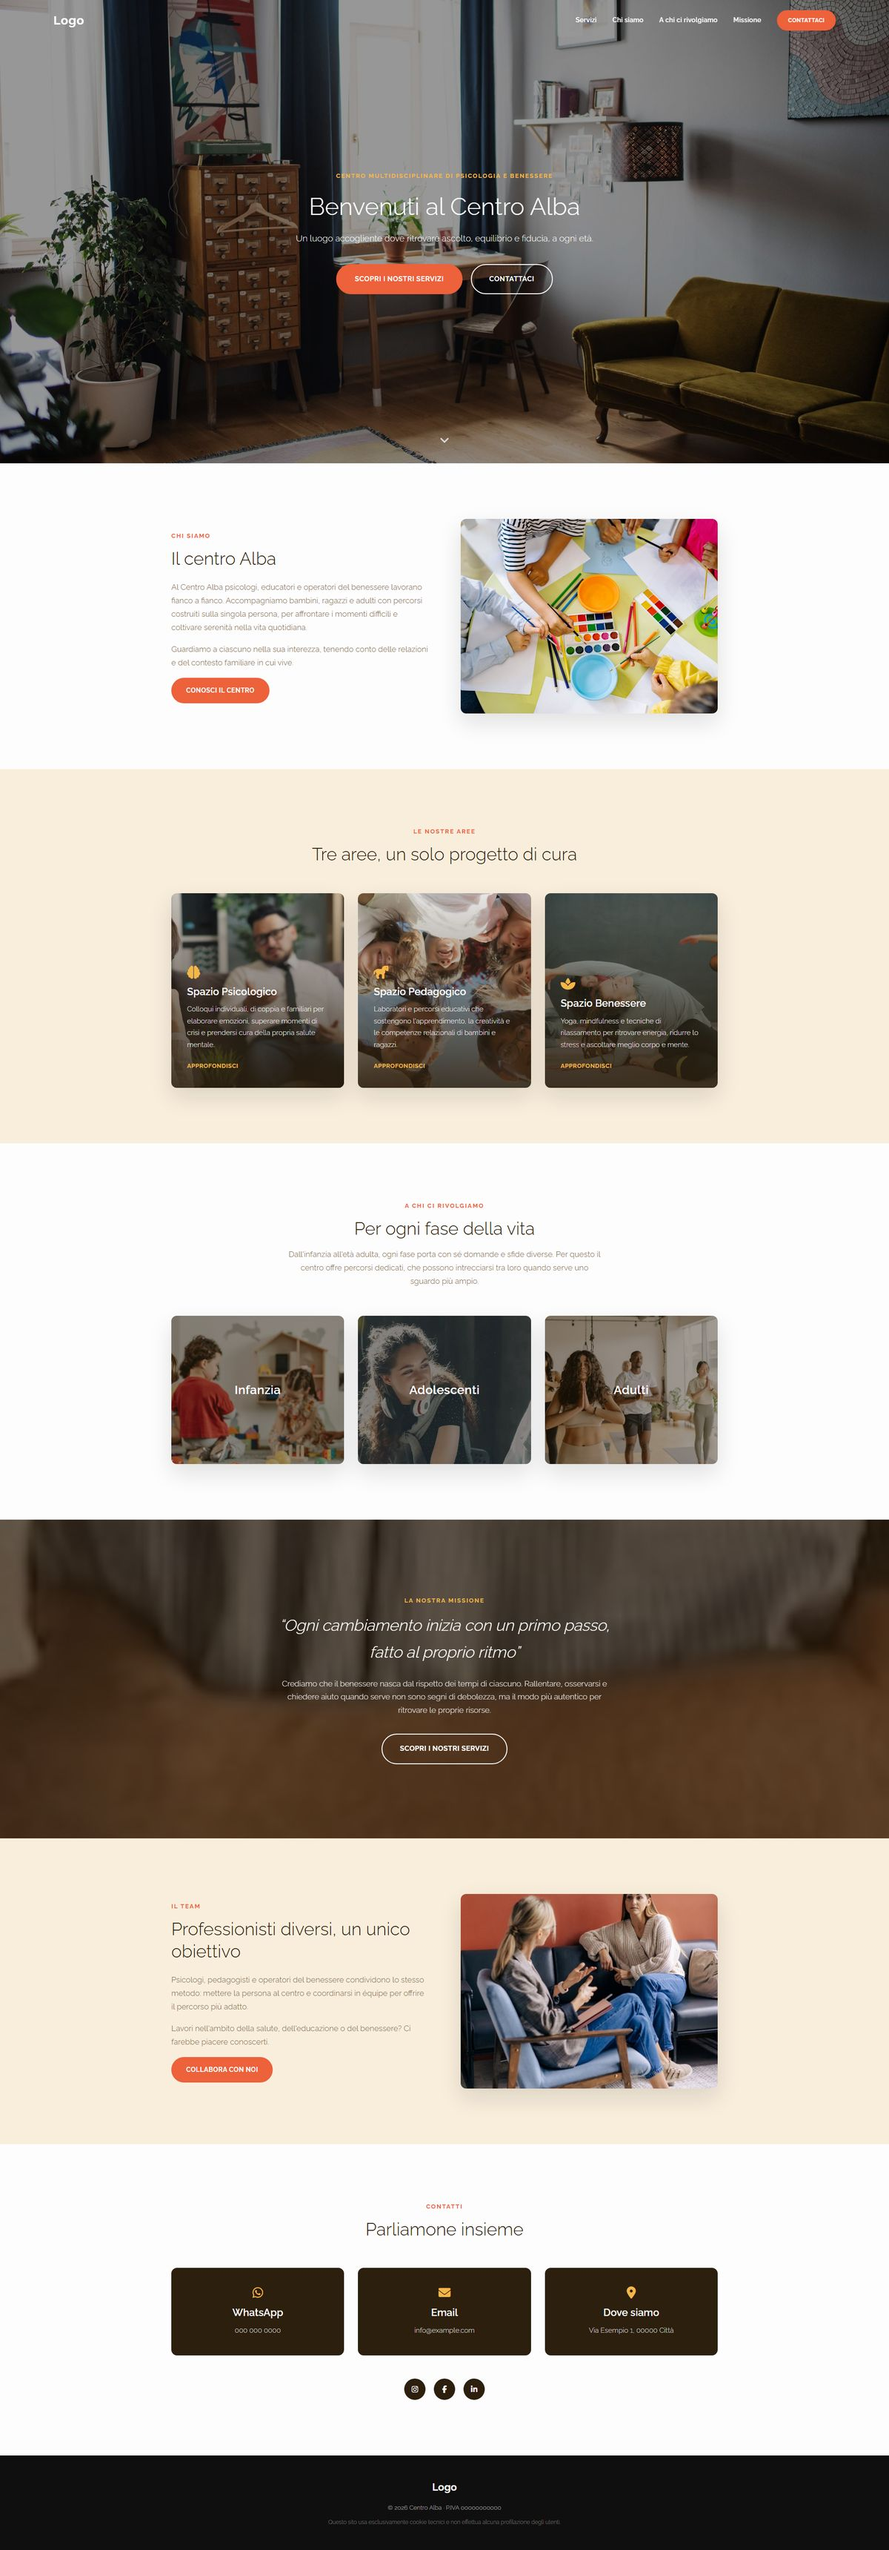
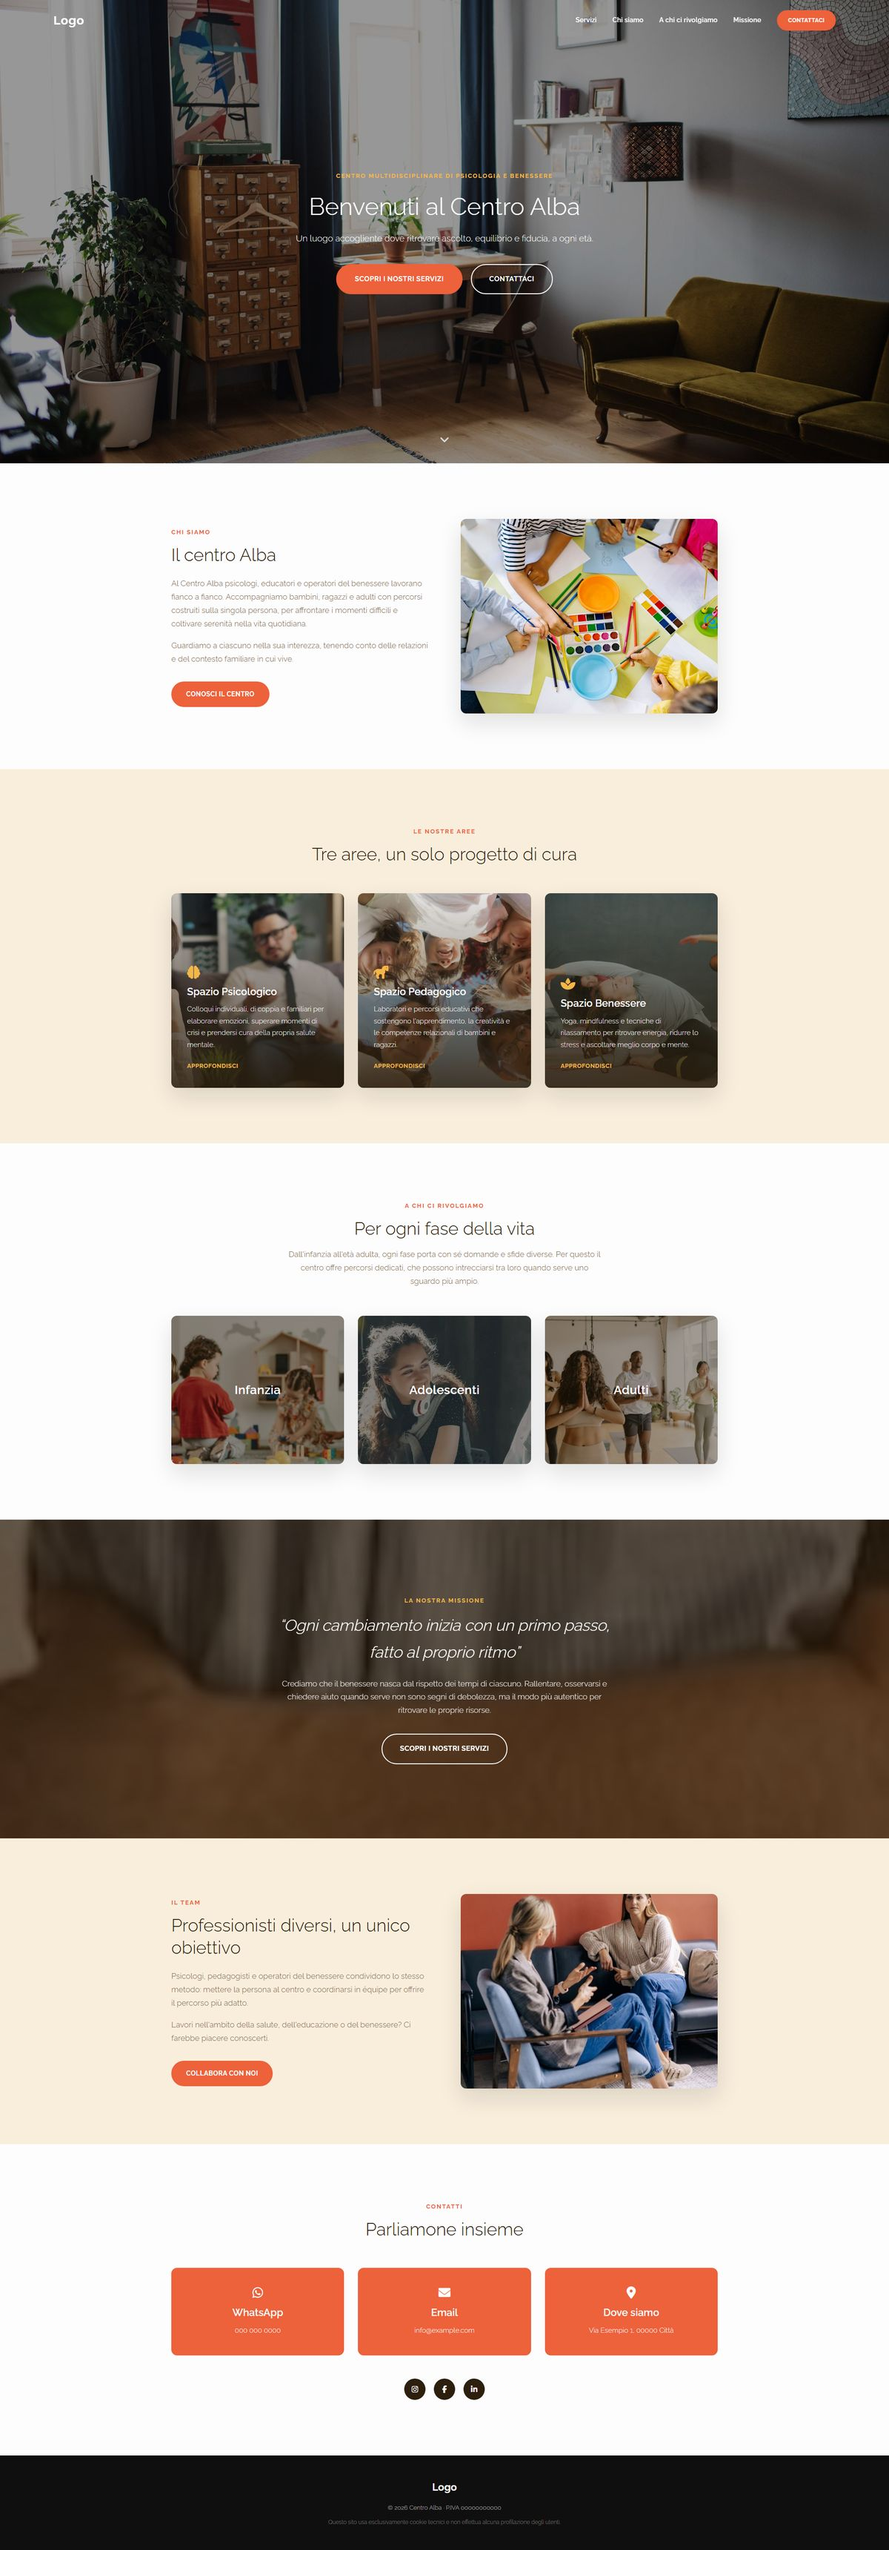
Wellness demo: CTA spacing, red contact cards

Changed region(s): [[0.185, 0.8709, 0.8325, 0.9331], [0.185, 0.7465, 0.4625, 0.8398], [0.185, 0.2177, 0.4625, 0.2799]]

diff --git a/benessere/assets/css/main.css b/benessere/assets/css/main.css
@@ -1,1 +1,1 @@
-:root{--amber: #ed613b;--amber-hover: #d94f2b;--gold: #f2b749;--brown: #7a6240;--night: #2c1f0e;--cream: #f9eedc;--grey: #ebebeb;--black: #0f0f0f;--white: #fdfdfd;--font: "Raleway", -apple-system, BlinkMacSystemFont, sans-serif;--radius: 12px;--shadow: 0 20px 50px rgba(15, 15, 15, 0.12);--transition: all 0.3s ease;--max-width: 1180px}*{margin:0;padding:0;box-sizing:border-box}html{scroll-behavior:smooth}body{font-family:var(--font);font-weight:300;color:var(--night);background-color:var(--white);line-height:1.7;overflow-x:hidden}body.is-loading *{transition:none !important}img{display:block;max-width:100%}a{color:inherit;text-decoration:none}h1,h2,h3{font-weight:300;line-height:1.25}h1{font-size:52px}h2{font-size:38px}h3{font-size:22px;font-weight:600}p{font-size:17px}.kicker{display:inline-block;font-size:13px;font-weight:700;letter-spacing:2px;text-transform:uppercase;color:var(--amber);margin-bottom:14px}.kicker.light{color:var(--gold)}.button{display:inline-flex;align-items:center;gap:8px;padding:14px 30px;border-radius:999px;background-color:var(--amber);color:var(--white);font-weight:700;font-size:14px;letter-spacing:.5px;text-transform:uppercase;transition:var(--transition);border:2px solid var(--amber)}.button:hover{background-color:var(--amber-hover);border-color:var(--amber-hover);transform:translateY(-2px)}.button.big{padding:18px 38px;font-size:15px}.button.alt{background-color:rgba(0,0,0,0);border-color:var(--white)}.button.alt:hover{background-color:var(--white);color:var(--night)}.button.small{padding:10px 22px;font-size:12px}#navbar{position:fixed;top:0;left:0;right:0;z-index:1000;display:flex;align-items:center;justify-content:space-between;padding:22px 6%;transition:var(--transition)}#navbar.is-solid{background-color:rgba(253,253,253,.96);backdrop-filter:blur(6px);padding:14px 6%;box-shadow:0 2px 20px rgba(15,15,15,.06)}#navbar .logo{font-size:26px;font-weight:700;color:var(--white);letter-spacing:1px;transition:var(--transition)}#navbar.is-solid .logo{color:var(--amber)}#navbar nav{display:flex;align-items:center;gap:34px}#navbar nav a:not(.button){font-size:14px;font-weight:600;color:var(--white);letter-spacing:.3px;position:relative;transition:var(--transition)}#navbar.is-solid nav a:not(.button){color:var(--night)}#navbar nav a:not(.button)::after{content:"";position:absolute;left:0;bottom:-6px;width:0;height:2px;background-color:var(--amber);transition:var(--transition)}#navbar nav a:not(.button):hover::after{width:100%}#nav-toggle{display:none;flex-direction:column;gap:5px;background:none;border:none;cursor:pointer;padding:6px}#nav-toggle span{width:26px;height:2px;background-color:var(--white);transition:var(--transition)}#navbar.is-solid #nav-toggle span{background-color:var(--night)}.block-hero{position:relative;min-height:min(100vh,1000px);display:flex;align-items:center;justify-content:center;text-align:center;background-size:cover;background-position:center;background-repeat:no-repeat;padding:0 6%}.block-hero .overlay{position:absolute;inset:0;background:rgba(0,0,0,.35)}.block-hero .content{position:relative;z-index:2;max-width:780px;color:var(--white)}.block-hero .eyebrow{display:inline-block;font-size:13px;font-weight:700;letter-spacing:2px;text-transform:uppercase;color:var(--gold);margin-bottom:22px}.block-hero h1{margin-bottom:20px}.block-hero p{font-size:19px;font-weight:300;margin-bottom:40px;opacity:.92}.block-hero .actions{display:flex;gap:18px;justify-content:center;flex-wrap:wrap}.scroll-cue{position:absolute;bottom:36px;left:50%;transform:translateX(-50%);z-index:2;color:var(--white);font-size:20px;opacity:.8;animation:bounce 2.2s infinite}@keyframes bounce{0%,100%{transform:translate(-50%, 0)}50%{transform:translate(-50%, 10px)}}.block,.block-dark{padding:120px 6%}.block-alt{background-color:var(--cream)}.block-dark{background-color:var(--night);color:var(--white)}.inner{max-width:var(--max-width);margin:0 auto}.section-head{max-width:680px;margin:0 auto 60px;text-align:center}.section-head p{margin-top:18px;color:var(--brown)}.block-dark .section-head p{color:rgba(253,253,253,.75)}.two-col{display:grid;grid-template-columns:1fr 1fr;gap:70px;align-items:center}.two-col.reverse .col.image{order:2}.two-col .text h2{margin-bottom:24px}.two-col .text p{color:var(--brown);margin-bottom:18px}.two-col .image img{width:100%;height:420px;object-fit:cover;border-radius:var(--radius);box-shadow:var(--shadow)}.grid{display:grid;gap:30px}.grid.three{grid-template-columns:repeat(3, 1fr)}.tile{position:relative;min-height:420px;border-radius:var(--radius);overflow:hidden;background-size:cover;background-position:center;box-shadow:var(--shadow);display:flex;align-items:flex-end}.tile-overlay{position:absolute;inset:0;background:linear-gradient(180deg, rgba(44, 31, 14, 0.1) 0%, rgba(44, 31, 14, 0.88) 100%);transition:var(--transition)}.tile-overlay::after{content:"";position:absolute;inset:0;background:linear-gradient(180deg, rgba(237, 97, 59, 0.3) 0%, rgba(237, 97, 59, 0.92) 100%);opacity:0;transition:opacity .3s ease}.tile:hover .tile-overlay::after{opacity:1}.tile-content{position:relative;z-index:2;padding:34px;color:var(--white)}.tile-content i{font-size:28px;color:var(--gold);margin-bottom:14px;display:block}.tile-content h3{color:var(--white);margin-bottom:12px}.tile-content p{font-size:15px;opacity:.9;margin-bottom:18px}.tile-content .link{font-size:13px;font-weight:700;letter-spacing:.5px;text-transform:uppercase;color:var(--gold);display:inline-flex;align-items:center;gap:8px}.cards-age{margin-top:10px}.age-card{position:relative;min-height:320px;border-radius:var(--radius);overflow:hidden;background-size:cover;background-position:center;box-shadow:var(--shadow);display:flex;align-items:center;justify-content:center}.age-overlay{position:absolute;inset:0;background-color:rgba(44,31,14,.45);transition:var(--transition)}.age-card:hover .age-overlay{background-color:rgba(237,97,59,.75)}.age-title{position:relative;z-index:2;color:var(--white);font-size:26px;font-weight:600;letter-spacing:.5px}.block-feature{position:relative;padding:160px 6%;text-align:center;background-size:cover;background-position:center;background-attachment:fixed}.block-feature .overlay{position:absolute;inset:0;background-color:rgba(44,31,14,.72)}.block-feature .content{position:relative;z-index:2;max-width:720px;margin:0 auto;color:var(--white)}.block-feature blockquote{font-size:34px;font-weight:300;font-style:italic;margin-bottom:24px}.block-feature p{opacity:.85;margin-bottom:36px}.contact-grid{margin-bottom:50px}.contact-card{text-align:center;padding:40px 20px;border-radius:var(--radius);background-color:rgba(253,253,253,.06);border:1px solid rgba(253,253,253,.1);transition:var(--transition)}.contact-card:hover{background-color:rgba(253,253,253,.1);transform:translateY(-4px)}.contact-card i{font-size:26px;color:var(--gold);margin-bottom:16px;display:block}.contact-card h3{color:var(--white);margin-bottom:10px}.contact-card span{color:rgba(253,253,253,.8);font-size:15px}.socials{display:flex;justify-content:center;gap:18px;list-style:none}.socials span{width:46px;height:46px;border-radius:50%;display:flex;align-items:center;justify-content:center;background-color:rgba(253,253,253,.08);color:var(--white);transition:var(--transition)}.socials span:hover{background-color:var(--amber);transform:translateY(-3px)}footer{padding:50px 6%;background-color:var(--black);color:rgba(253,253,253,.6);text-align:center}footer .logo{font-size:22px;font-weight:700;color:var(--white);display:inline-block;margin-bottom:14px}footer p{font-size:13px}footer .disclaimer{margin-top:10px;opacity:.6;font-size:12px}.reveal{opacity:0;transform:translateY(30px);transition:opacity .7s ease,transform .7s ease}.reveal.is-visible{opacity:1;transform:translateY(0)}@media(max-width: 900px){h1{font-size:38px}h2{font-size:30px}.block,.block-dark{padding:90px 6%}.block-feature{padding:110px 6%;background-attachment:scroll}.two-col,.grid.three{grid-template-columns:1fr}.two-col.reverse .col.image{order:0}.two-col .image img{height:280px}#navbar nav{position:fixed;top:0;right:-100%;width:78%;max-width:320px;height:100vh;background-color:var(--white);flex-direction:column;align-items:flex-start;justify-content:center;gap:26px;padding:40px;box-shadow:-10px 0 40px rgba(15,15,15,.15);transition:right .35s ease}#navbar nav.is-open{right:0}#navbar nav a:not(.button){color:var(--night) !important;font-size:17px}#nav-toggle{display:flex}.block-feature blockquote{font-size:26px}}.block-hero{background-image:url("../img/hero.jpg")}.tile--psicologico{background-image:url("../img/spazio-psicologico.webp")}.tile--pedagogico{background-image:url("../img/spazio-pedagogico.webp")}.tile--benessere{background-image:url("../img/spazio-benessere.jpg")}.age-card--infanzia{background-image:url("../img/infanzia.webp")}.age-card--adolescenti{background-image:url("../img/adolescenti.webp")}.age-card--adulti{background-image:url("../img/adulti.webp")}.block-feature{background-image:url("../img/missione.webp")}span.button{pointer-events:none;cursor:default}#navbar .logo,footer .logo{white-space:nowrap}.block-contacts .section-head h2{color:var(--night)}.block-contacts .contact-card{background-color:var(--night);border-color:var(--night);color:var(--white)}.block-contacts .contact-card:hover{background-color:#3d2c16}.block-contacts .contact-card span{color:rgba(253,253,253,.8)}.block-contacts .socials span{background-color:var(--night)}.block-contacts .socials span:hover{background-color:var(--amber)}
+:root{--amber: #ed613b;--amber-hover: #d94f2b;--gold: #f2b749;--brown: #7a6240;--night: #2c1f0e;--cream: #f9eedc;--grey: #ebebeb;--black: #0f0f0f;--white: #fdfdfd;--font: "Raleway", -apple-system, BlinkMacSystemFont, sans-serif;--radius: 12px;--shadow: 0 20px 50px rgba(15, 15, 15, 0.12);--transition: all 0.3s ease;--max-width: 1180px}*{margin:0;padding:0;box-sizing:border-box}html{scroll-behavior:smooth}body{font-family:var(--font);font-weight:300;color:var(--night);background-color:var(--white);line-height:1.7;overflow-x:hidden}body.is-loading *{transition:none !important}img{display:block;max-width:100%}a{color:inherit;text-decoration:none}h1,h2,h3{font-weight:300;line-height:1.25}h1{font-size:52px}h2{font-size:38px}h3{font-size:22px;font-weight:600}p{font-size:17px}.kicker{display:inline-block;font-size:13px;font-weight:700;letter-spacing:2px;text-transform:uppercase;color:var(--amber);margin-bottom:14px}.kicker.light{color:var(--gold)}.button{display:inline-flex;align-items:center;gap:8px;padding:14px 30px;border-radius:999px;background-color:var(--amber);color:var(--white);font-weight:700;font-size:14px;letter-spacing:.5px;text-transform:uppercase;transition:var(--transition);border:2px solid var(--amber)}.button:hover{background-color:var(--amber-hover);border-color:var(--amber-hover);transform:translateY(-2px)}.button.big{padding:18px 38px;font-size:15px}.button.alt{background-color:rgba(0,0,0,0);border-color:var(--white)}.button.alt:hover{background-color:var(--white);color:var(--night)}.button.small{padding:10px 22px;font-size:12px}#navbar{position:fixed;top:0;left:0;right:0;z-index:1000;display:flex;align-items:center;justify-content:space-between;padding:22px 6%;transition:var(--transition)}#navbar.is-solid{background-color:rgba(253,253,253,.96);backdrop-filter:blur(6px);padding:14px 6%;box-shadow:0 2px 20px rgba(15,15,15,.06)}#navbar .logo{font-size:26px;font-weight:700;color:var(--white);letter-spacing:1px;transition:var(--transition)}#navbar.is-solid .logo{color:var(--amber)}#navbar nav{display:flex;align-items:center;gap:34px}#navbar nav a:not(.button){font-size:14px;font-weight:600;color:var(--white);letter-spacing:.3px;position:relative;transition:var(--transition)}#navbar.is-solid nav a:not(.button){color:var(--night)}#navbar nav a:not(.button)::after{content:"";position:absolute;left:0;bottom:-6px;width:0;height:2px;background-color:var(--amber);transition:var(--transition)}#navbar nav a:not(.button):hover::after{width:100%}#nav-toggle{display:none;flex-direction:column;gap:5px;background:none;border:none;cursor:pointer;padding:6px}#nav-toggle span{width:26px;height:2px;background-color:var(--white);transition:var(--transition)}#navbar.is-solid #nav-toggle span{background-color:var(--night)}.block-hero{position:relative;min-height:min(100vh,1000px);display:flex;align-items:center;justify-content:center;text-align:center;background-size:cover;background-position:center;background-repeat:no-repeat;padding:0 6%}.block-hero .overlay{position:absolute;inset:0;background:rgba(0,0,0,.35)}.block-hero .content{position:relative;z-index:2;max-width:780px;color:var(--white)}.block-hero .eyebrow{display:inline-block;font-size:13px;font-weight:700;letter-spacing:2px;text-transform:uppercase;color:var(--gold);margin-bottom:22px}.block-hero h1{margin-bottom:20px}.block-hero p{font-size:19px;font-weight:300;margin-bottom:40px;opacity:.92}.block-hero .actions{display:flex;gap:18px;justify-content:center;flex-wrap:wrap}.scroll-cue{position:absolute;bottom:36px;left:50%;transform:translateX(-50%);z-index:2;color:var(--white);font-size:20px;opacity:.8;animation:bounce 2.2s infinite}@keyframes bounce{0%,100%{transform:translate(-50%, 0)}50%{transform:translate(-50%, 10px)}}.block,.block-dark{padding:120px 6%}.block-alt{background-color:var(--cream)}.block-dark{background-color:var(--night);color:var(--white)}.inner{max-width:var(--max-width);margin:0 auto}.section-head{max-width:680px;margin:0 auto 60px;text-align:center}.section-head p{margin-top:18px;color:var(--brown)}.block-dark .section-head p{color:rgba(253,253,253,.75)}.two-col{display:grid;grid-template-columns:1fr 1fr;gap:70px;align-items:center}.two-col.reverse .col.image{order:2}.two-col .text h2{margin-bottom:24px}.two-col .text .button{margin-top:16px}.two-col .text p{color:var(--brown);margin-bottom:18px}.two-col .image img{width:100%;height:420px;object-fit:cover;border-radius:var(--radius);box-shadow:var(--shadow)}.grid{display:grid;gap:30px}.grid.three{grid-template-columns:repeat(3, 1fr)}.tile{position:relative;min-height:420px;border-radius:var(--radius);overflow:hidden;background-size:cover;background-position:center;box-shadow:var(--shadow);display:flex;align-items:flex-end}.tile-overlay{position:absolute;inset:0;background:linear-gradient(180deg, rgba(44, 31, 14, 0.1) 0%, rgba(44, 31, 14, 0.88) 100%);transition:var(--transition)}.tile-overlay::after{content:"";position:absolute;inset:0;background:linear-gradient(180deg, rgba(237, 97, 59, 0.3) 0%, rgba(237, 97, 59, 0.92) 100%);opacity:0;transition:opacity .3s ease}.tile:hover .tile-overlay::after{opacity:1}.tile-content{position:relative;z-index:2;padding:34px;color:var(--white)}.tile-content i{font-size:28px;color:var(--gold);margin-bottom:14px;display:block}.tile-content h3{color:var(--white);margin-bottom:12px}.tile-content p{font-size:15px;opacity:.9;margin-bottom:18px}.tile-content .link{font-size:13px;font-weight:700;letter-spacing:.5px;text-transform:uppercase;color:var(--gold);display:inline-flex;align-items:center;gap:8px}.cards-age{margin-top:10px}.age-card{position:relative;min-height:320px;border-radius:var(--radius);overflow:hidden;background-size:cover;background-position:center;box-shadow:var(--shadow);display:flex;align-items:center;justify-content:center}.age-overlay{position:absolute;inset:0;background-color:rgba(44,31,14,.45);transition:var(--transition)}.age-card:hover .age-overlay{background-color:rgba(237,97,59,.75)}.age-title{position:relative;z-index:2;color:var(--white);font-size:26px;font-weight:600;letter-spacing:.5px}.block-feature{position:relative;padding:160px 6%;text-align:center;background-size:cover;background-position:center;background-attachment:fixed}.block-feature .overlay{position:absolute;inset:0;background-color:rgba(44,31,14,.72)}.block-feature .content{position:relative;z-index:2;max-width:720px;margin:0 auto;color:var(--white)}.block-feature blockquote{font-size:34px;font-weight:300;font-style:italic;margin-bottom:24px}.block-feature p{opacity:.85;margin-bottom:36px}.contact-grid{margin-bottom:50px}.contact-card{text-align:center;padding:40px 20px;border-radius:var(--radius);background-color:rgba(253,253,253,.06);border:1px solid rgba(253,253,253,.1);transition:var(--transition)}.contact-card:hover{background-color:rgba(253,253,253,.1);transform:translateY(-4px)}.contact-card i{font-size:26px;color:var(--gold);margin-bottom:16px;display:block}.contact-card h3{color:var(--white);margin-bottom:10px}.contact-card span{color:rgba(253,253,253,.8);font-size:15px}.socials{display:flex;justify-content:center;gap:18px;list-style:none}.socials span{width:46px;height:46px;border-radius:50%;display:flex;align-items:center;justify-content:center;background-color:rgba(253,253,253,.08);color:var(--white);transition:var(--transition)}.socials span:hover{background-color:var(--amber);transform:translateY(-3px)}footer{padding:50px 6%;background-color:var(--black);color:rgba(253,253,253,.6);text-align:center}footer .logo{font-size:22px;font-weight:700;color:var(--white);display:inline-block;margin-bottom:14px}footer p{font-size:13px}footer .disclaimer{margin-top:10px;opacity:.6;font-size:12px}.reveal{opacity:0;transform:translateY(30px);transition:opacity .7s ease,transform .7s ease}.reveal.is-visible{opacity:1;transform:translateY(0)}@media(max-width: 900px){h1{font-size:38px}h2{font-size:30px}.block,.block-dark{padding:90px 6%}.block-feature{padding:110px 6%;background-attachment:scroll}.two-col,.grid.three{grid-template-columns:1fr}.two-col.reverse .col.image{order:0}.two-col .image img{height:280px}#navbar nav{position:fixed;top:0;right:-100%;width:78%;max-width:320px;height:100vh;background-color:var(--white);flex-direction:column;align-items:flex-start;justify-content:center;gap:26px;padding:40px;box-shadow:-10px 0 40px rgba(15,15,15,.15);transition:right .35s ease}#navbar nav.is-open{right:0}#navbar nav a:not(.button){color:var(--night) !important;font-size:17px}#nav-toggle{display:flex}.block-feature blockquote{font-size:26px}}.block-hero{background-image:url("../img/hero.jpg")}.tile--psicologico{background-image:url("../img/spazio-psicologico.webp")}.tile--pedagogico{background-image:url("../img/spazio-pedagogico.webp")}.tile--benessere{background-image:url("../img/spazio-benessere.jpg")}.age-card--infanzia{background-image:url("../img/infanzia.webp")}.age-card--adolescenti{background-image:url("../img/adolescenti.webp")}.age-card--adulti{background-image:url("../img/adulti.webp")}.block-feature{background-image:url("../img/missione.webp")}span.button{pointer-events:none;cursor:default}#navbar .logo,footer .logo{white-space:nowrap}.block-contacts .section-head h2{color:var(--night)}.block-contacts .contact-card{background-color:var(--amber);border-color:var(--amber);color:var(--white)}.block-contacts .contact-card:hover{background-color:var(--amber-hover)}.block-contacts .contact-card i{color:var(--white)}.block-contacts .contact-card span{color:rgba(253,253,253,.9)}.block-contacts .socials span{background-color:var(--night)}.block-contacts .socials span:hover{background-color:var(--amber)}

diff --git a/benessere/assets/scss/main.scss b/benessere/assets/scss/main.scss
@@ -353,6 +353,10 @@ p {
   margin-bottom: 24px;
 }
 
+.two-col .text .button {
+  margin-top: 16px;
+}
+
 .two-col .text p {
   color: var(--brown);
   margin-bottom: 18px;
@@ -712,8 +716,9 @@ span.button { pointer-events: none; cursor: default; }
 
 /* Contacts on white: brown heading, solid brown cards and socials */
 .block-contacts .section-head h2 { color: var(--night); }
-.block-contacts .contact-card { background-color: var(--night); border-color: var(--night); color: var(--white); }
-.block-contacts .contact-card:hover { background-color: #3d2c16; }
-.block-contacts .contact-card span { color: rgba(253, 253, 253, 0.8); }
+.block-contacts .contact-card { background-color: var(--amber); border-color: var(--amber); color: var(--white); }
+.block-contacts .contact-card:hover { background-color: var(--amber-hover); }
+.block-contacts .contact-card i { color: var(--white); }
+.block-contacts .contact-card span { color: rgba(253, 253, 253, 0.9); }
 .block-contacts .socials span { background-color: var(--night); }
 .block-contacts .socials span:hover { background-color: var(--amber); }
